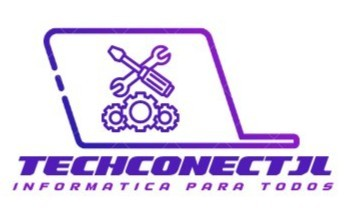
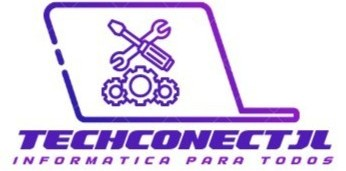
responsive index

diff --git a/index.html b/index.html
@@ -35,7 +35,6 @@
             display: flex;
             justify-content: space-between;
             align-items: center;
-            flex-wrap: wrap;
             box-shadow: 0 2px 10px rgba(0, 0, 0, 0.1);
             border-bottom: 3px solid var(--morado-principal);
             position: sticky;
@@ -44,21 +43,22 @@
         }
 
         header img {
-            width: 200px;
+            width: 180px; /* Reducido un poco de base */
             height: auto;
+            transition: 0.3s;
         }
 
         nav {
             display: flex;
-            gap: 10px;
-            flex-wrap: wrap;
+            gap: 5px;
         }
 
         nav a {
             color: var(--texto);
-            padding: 8px 15px;
+            padding: 8px 12px;
             font-weight: bold;
-            font-size: 0.95rem;
+            font-size: 0.9rem;
+            border-radius: 20px;
             transition: 0.3s;
         }
 
@@ -211,16 +211,47 @@
         
         @media (max-width: 768px) {
             header {
-                flex-direction: column;
-                padding: 1rem;
+                padding: 0.5rem 2%; /* Menos relleno para ganar espacio */
+                flex-direction: column; /* Apilamos logo y menú */
+                gap: 10px;
+            }
+
+            header img {
+                width: 130px; /* LOGO MUCHO MÁS PEQUEÑO EN MÓVIL */
             }
 
             nav {
+                width: 100%;
                 justify-content: center;
+                gap: 2px; /* Espacio mínimo entre botones */
+            }
+
+            nav a {
+                padding: 6px 8px; /* Botones más compactos */
+                font-size: 0.75rem; /* Texto más pequeño para que quepa en una línea */
+                white-space: nowrap; /* Evita que el texto se rompa en dos líneas */
+            }
+
+            .hero-home {
+                padding: 40px 15px; /* Menos aire en el banner principal */
             }
 
             .hero-home h1 {
-                font-size: 2rem;
+                font-size: 1.8rem;
+            }
+
+            /* Ajuste de logos de marcas para que no ocupen toda la pantalla */
+            .marcas img {
+                width: 80px !important; 
+                margin: 10px !important;
+            }
+        }
+
+        /* Extra para pantallas muy pequeñas (iPhone SE, etc) */
+        @media (max-width: 380px) {
+            nav a {
+                font-size: 0.7rem;
+                padding: 5px 5px;
             }
         }
     </style>
